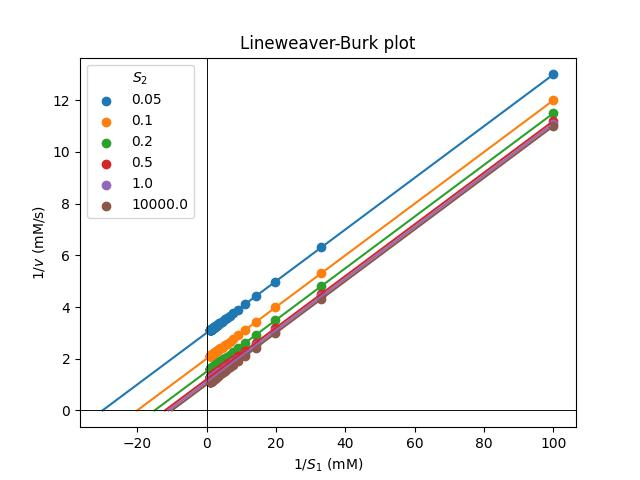
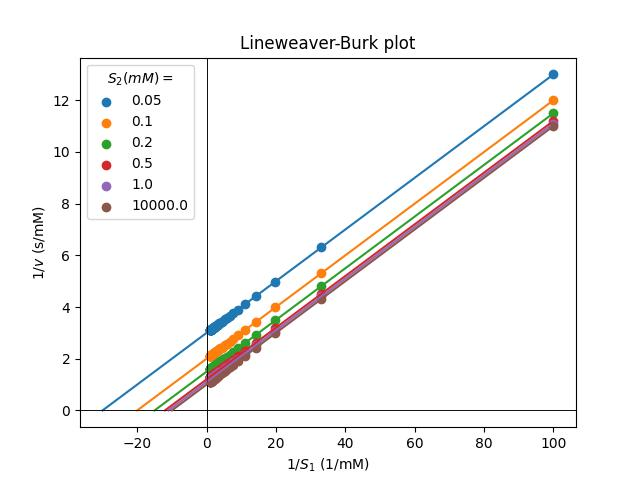
swapped unites and uncommented plt.show()

Changed region(s): [[0.1562, 0.1562, 0.3125, 0.4688], [0.4375, 0.9375, 0.5938, 1.0], [0.0312, 0.4375, 0.0625, 0.5312]]

diff --git a/assignment1/main.py b/assignment1/main.py
@@ -44,12 +44,12 @@ for value in kinetics["S2"].unique():
     y_plot = a * x_plot + b
     plt.plot(x_plot, y_plot)
 
-plt.ylabel(r"$1/v$ (mM/s)")
-plt.xlabel(r"$1/S_1$ (mM)")
-plt.legend(title=r"$S_2$")
+plt.ylabel(r"$1/v$ (s/mM)")
+plt.xlabel(r"$1/S_1$ (1/mM)")
+plt.legend(title=r"$S_2 (mM) =$")
 plt.title("Lineweaver-Burk plot")
 plt.savefig("pingpong.jpg")
-# plt.show()
+plt.show()
 plt.clf()
 
 print("\nFind Km2")
@@ -122,5 +122,5 @@ plt.axhline(y=S1_safe_mM, linestyle="dotted", alpha=0.5, color="k")
 plt.plot(sol.t_events[0], sol.y_events[0][0], "x", color="k")
 
 plt.savefig("Concentration.jpg")
-# plt.show()
+plt.show()
 plt.clf()
